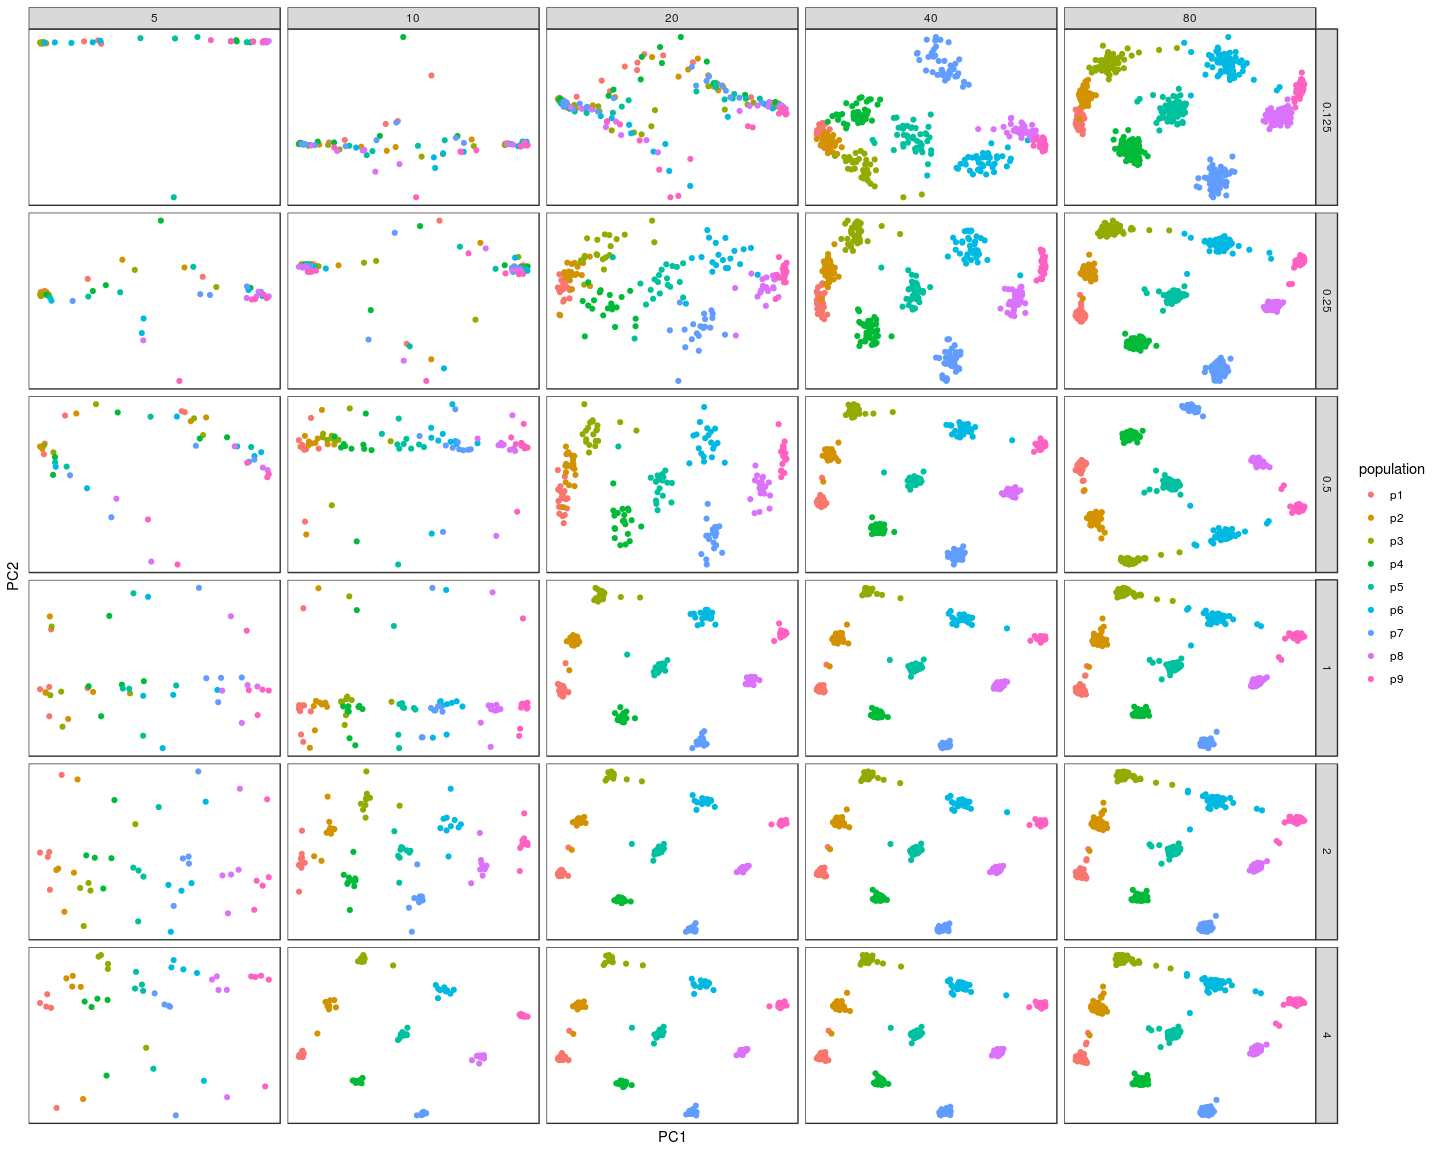
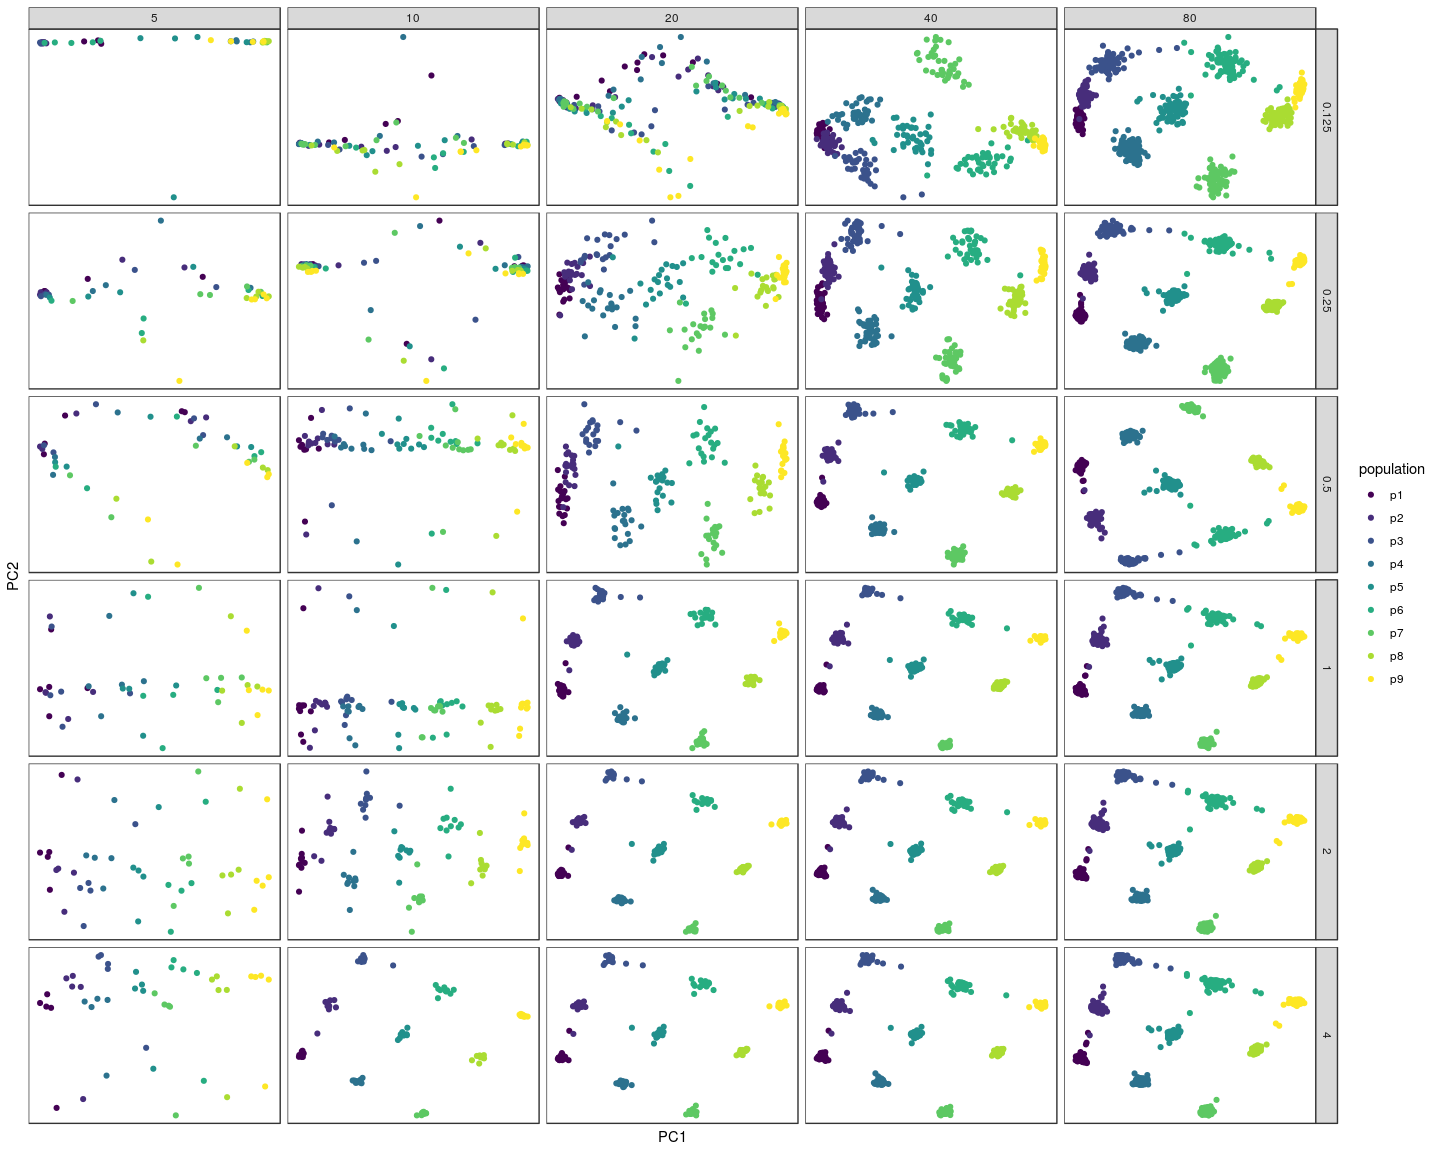
changed supplement figure color scheme for PCA

diff --git a/markdowns/data_analysis_spatial_pop_lower_m.md b/markdowns/data_analysis_spatial_pop_lower_m.md
@@ -76,7 +76,7 @@ for (coverage in c(0.125,0.25,0.5,1,2,4)){
                   newdata = pca_table[,1:(5+1)])
     prop.lda <- fit$svd^2/sum(fit$svd^2)
     dapc_table <- data.frame(group = pca_table[,1], lda = plda$x) %>%
-      transmute(population=population, LD1=rescale(lda.LD1,c(-1,1)), LD2=rescale(lda.LD2, c(-1,1)), coverage=coverage, sample_size=sample_size)
+      transmute(population=group, LD1=rescale(lda.LD1,c(-1,1)), LD2=rescale(lda.LD2, c(-1,1)), coverage=coverage, sample_size=sample_size)
     ## Bind PCA tables and DAPC tables for all sample size and coverage combinations
     if (i==1){
       pca_table_final <- pca_table
@@ -109,6 +109,7 @@ dapc_table_final_per_pop <- group_by(dapc_table_final, population, coverage, sam
 ``` r
 ggplot(pca_table_final,aes(x=PC1, y=PC2, color=population)) +
   geom_point() +
+  scale_color_viridis_d() +
   facet_grid(coverage~sample_size, scales="free") +
   theme_bw() +
   theme(panel.grid = element_blank(),
@@ -197,7 +198,7 @@ for (coverage in c(0.125,0.25,0.5,1,2,4)){
                   newdata = pca_table[,1:(5+1)])
     prop.lda <- fit$svd^2/sum(fit$svd^2)
     dapc_table <- data.frame(group = pca_table[,1], lda = plda$x) %>%
-      transmute(population=population, LD1=rescale(lda.LD1,c(-1,1)), LD2=rescale(lda.LD2, c(-1,1)), coverage=coverage, sample_size=sample_size)
+      transmute(population=group, LD1=rescale(lda.LD1,c(-1,1)), LD2=rescale(lda.LD2, c(-1,1)), coverage=coverage, sample_size=sample_size)
     ## Bind PCA tables and DAPC tables for all sample size and coverage combinations
     if (i==1){
       pca_table_final <- pca_table
@@ -321,7 +322,7 @@ for (coverage in c(0.125,0.25,0.5,1,2,4)){
                   newdata = mds_table[,1:(5+1)])
     prop.lda <- fit$svd^2/sum(fit$svd^2)
     dapc_table <- data.frame(group = mds_table[,1], lda = plda$x) %>%
-      transmute(population=population, LD1=rescale(lda.LD1,c(-1,1)), LD2=rescale(lda.LD2, c(-1,1)), coverage=coverage, sample_size=sample_size)
+      transmute(population=group, LD1=rescale(lda.LD1,c(-1,1)), LD2=rescale(lda.LD2, c(-1,1)), coverage=coverage, sample_size=sample_size)
     ## Bind PCoA tables and DAPC tables for all sample size and coverage combinations
     if (i==1){
       mds_table_final <- mds_table

diff --git a/markdowns/data_analysis_spatial_pop.md b/markdowns/data_analysis_spatial_pop.md
@@ -118,6 +118,7 @@ dapc_table_final_per_pop <- group_by(dapc_table_final, population, coverage, sam
 ``` r
 ggplot(pca_table_final,aes(x=PC1, y=PC2, color=population)) +
   geom_point() +
+  scale_color_viridis_d() +
   facet_grid(coverage~sample_size, scales="free") +
   theme_bw() +
   theme(panel.grid = element_blank(),

diff --git a/markdowns/simulation_workflow_spatial_pop_sim_longer_chr.md b/markdowns/simulation_workflow_spatial_pop_sim_longer_chr.md
@@ -478,6 +478,7 @@ covariance matrices generated from PCAngsd.
 ``` r
 ggplot(pca_table_final,aes(x=PC1, y=PC2, color=population)) +
   geom_point() +
+  scale_color_viridis_d() +
   facet_grid(coverage~sample_size, scales="free") +
   theme_bw() +
   theme(panel.grid = element_blank(),
